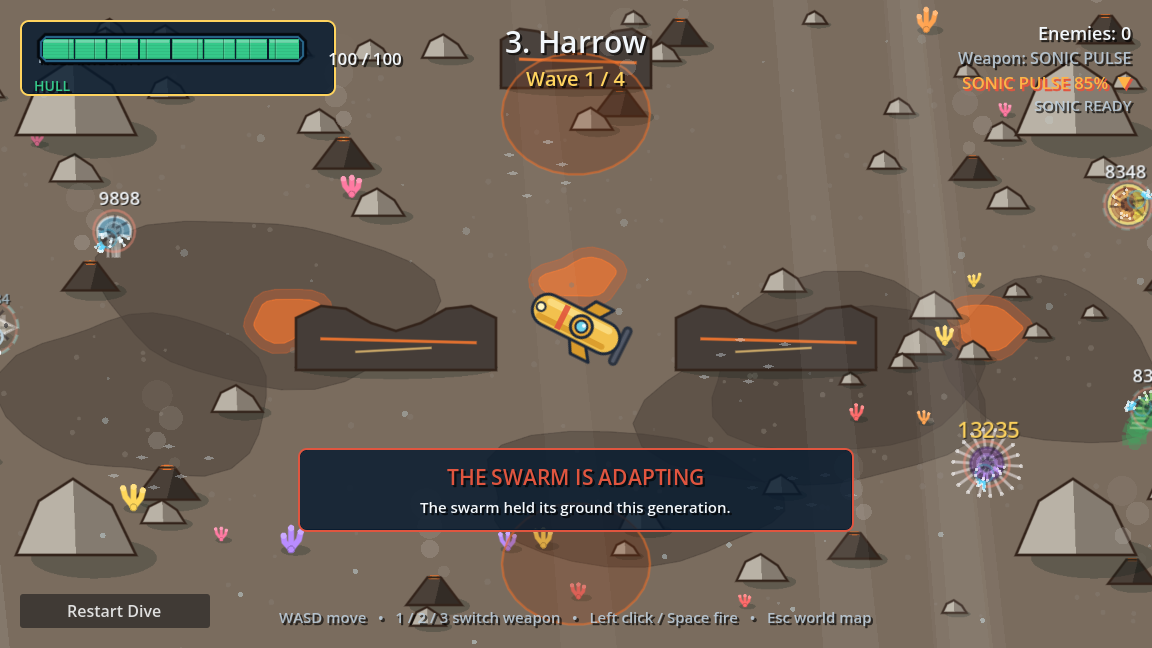
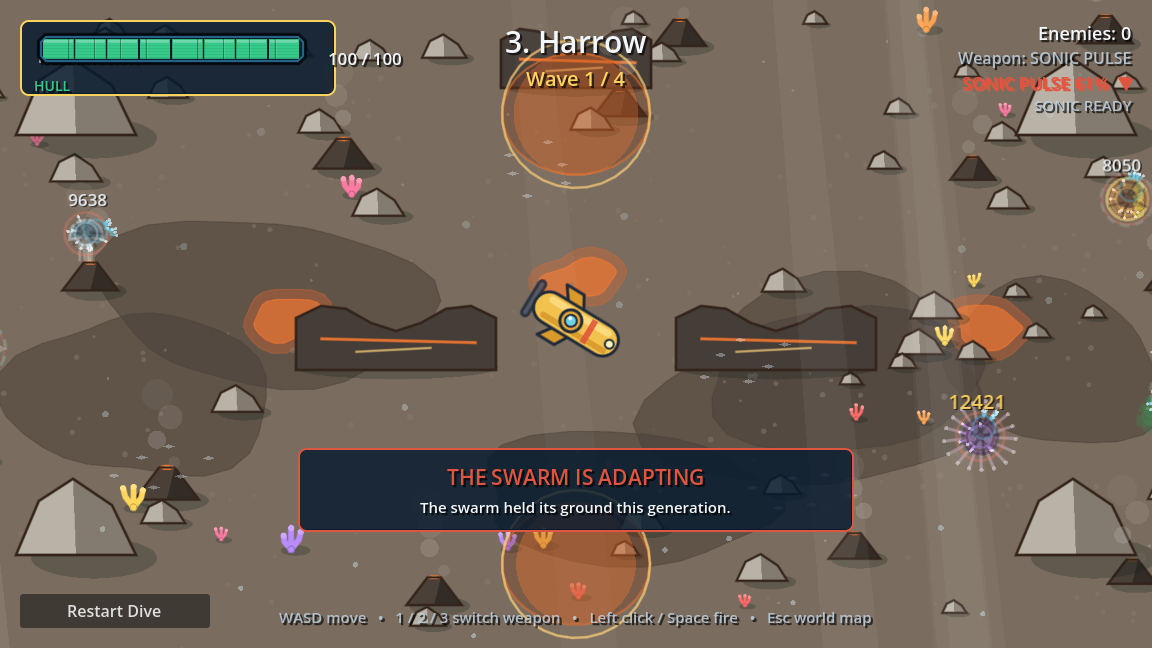
test: prove the three arenas render as different biomes
Add a per-island render pass to the UI harness: it loads Redwake, Quiet Belt and
Harrow in turn, waits for each opening wave and screenshots it, then compares the
mean colour of the play area between the three frames. A delta of 0.00 is what
identical biomes look like, so this doubles as the regression test for the bug
where every island silently baked the shallow-reef floor.

Measured deltas: 0.349 (redwake/quiet_belt), 0.470 (redwake/harrow),
0.264 (quiet_belt/harrow). Verification doc and the screenshot gallery updated
with the new numbers.

🤖 Generated with Codebuff

diff --git a/docs/shots/index.html b/docs/shots/index.html
@@ -72,5 +72,20 @@
 	<figcaption><b>09 — Twelve invasives on screen.</b> Distinct species art, wound tint, spikes grown by the evolved traits.</figcaption>
 </figure>
 
+<figure>
+	<img src="10_level_redwake.png" alt="Redwake, shallow reef">
+	<figcaption><b>10 — Redwake.</b> Shallow reef: open sand, coral bombies, bright water. The first island, two species.</figcaption>
+</figure>
+
+<figure>
+	<img src="11_level_quiet_belt.png" alt="Quiet Belt, kelp forest">
+	<figcaption><b>11 — Quiet Belt.</b> Kelp belt: green palettes, kelp cover, a wreck, four species.</figcaption>
+</figure>
+
+<figure>
+	<img src="12_level_harrow.png" alt="Harrow, volcanic vents">
+	<figcaption><b>12 — Harrow.</b> Volcanic vents: dark rock, ember drift and geysers, the full six-species roster.</figcaption>
+</figure>
+
 </body>
 </html>

diff --git a/docs/VERIFICATION.md b/docs/VERIFICATION.md
@@ -137,18 +137,25 @@ timeout 280 "$GODOT" --path . --script res://tools/verify_ui.gd
 ```
 
 Headless Godot cannot rasterize, so this one runs windowed, screenshots the viewport and counts
-pixels of known colours. Result: `PASS: every draw path ran without errors`, 10 screenshots in
+pixels of known colours. Result: `PASS: every draw path ran without errors`, 13 screenshots in
 [docs/shots/](docs/shots/index.html) (1152×648, all ~100 % non-black), peak **12** simultaneous
 enemies on screen.
 
 | What was measured | Result |
 |---|---|
 | Bestiary cover-green palette | 2469 samples |
-| Bestiary parchment | 3125 samples |
+| Bestiary parchment | 3127 samples |
 | Adaptation banner visible between waves | `true`, 2 text labels rendered |
-| Hull "critical" red on the bar | 2336 samples |
-| Damage vignette covered the viewport | size (1152, 648), intensity 0.361 |
-| Screen-edge redness, hurt vs healthy | **0.185 vs 0.051** |
+| Hull "critical" red on the bar | 2541 samples |
+| Damage vignette covered the viewport | size (1152, 648), intensity 0.379 |
+| Screen-edge redness, hurt vs healthy | **0.177 vs 0.052** |
+| The three arenas render different biomes | mean play-area colour delta **0.349 / 0.470 / 0.264** |
+
+The last row is the W4 acceptance check: the harness loads each island in turn, waits for its
+wave, and compares the average colour of the play area. Identical biomes would score ~0.00, so
+this is also the regression test for the configure-before-`add_child()` bug described in §2.
+The 13 screenshots are `01`–`09` for the map, bestiary, HUD, banner, dome, beam and a 12-enemy
+load frame, plus `10`/`11`/`12` for Redwake, Quiet Belt and Harrow respectively.
 
 Three real bugs were found and fixed by this harness: the damage vignette's `Control` was
 resolving to a **0×0 rect** (invisible in-game), the bestiary's page wash was drawn with a
